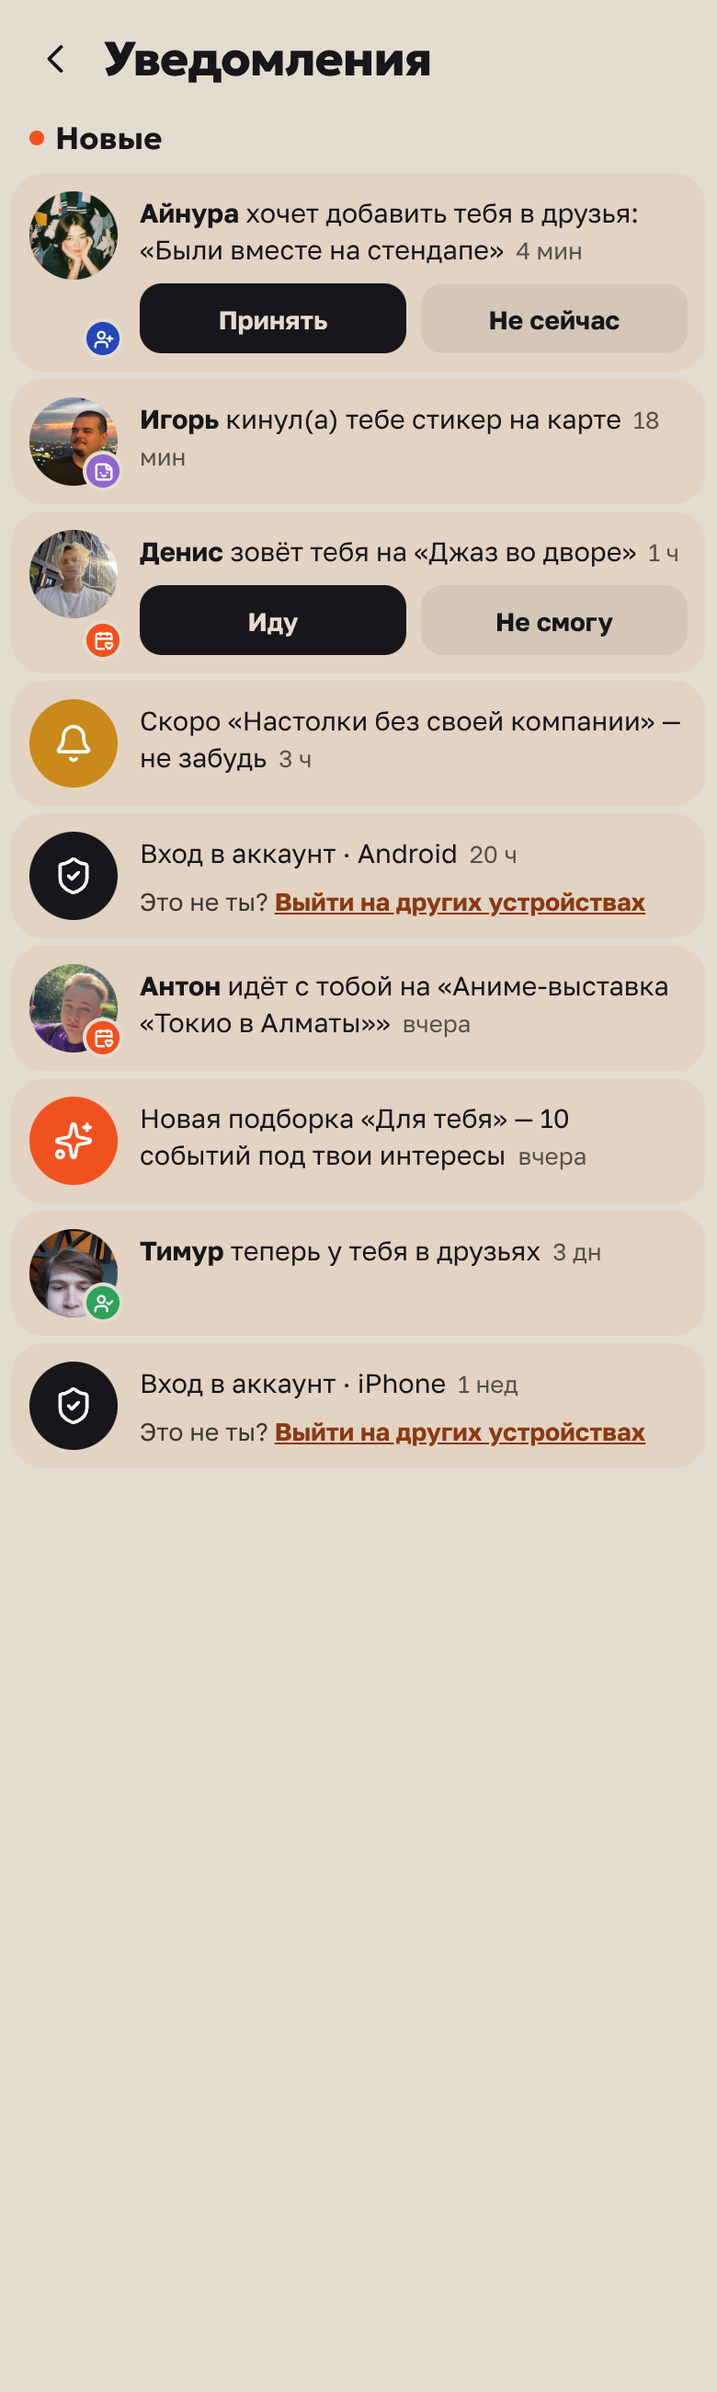
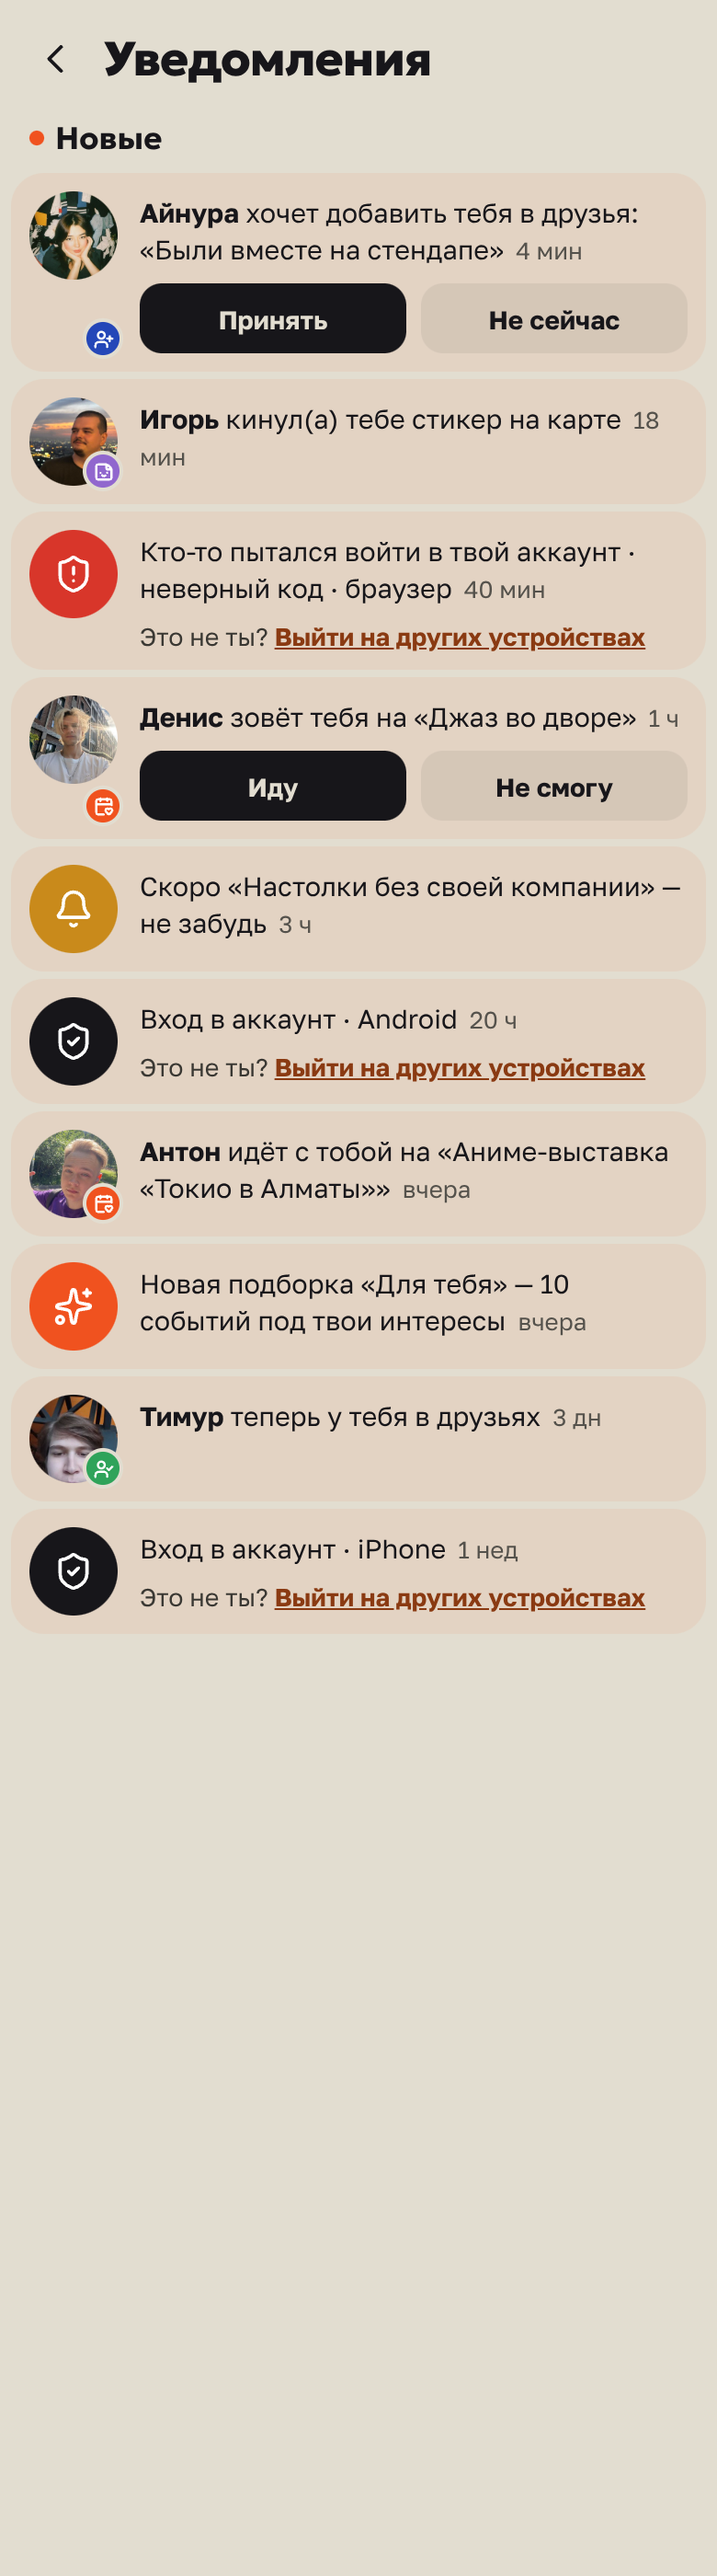
Уведомления: «Кто-то пытался войти в твой аккаунт» — неверный код входа записывается владельцу с устройством (миграция 43, функция входа); колокольчик и в «Профиле»
Claude-Session: https://claude.ai/code/session_01DMdj7yuvkvUJavaKvkBSQC

Changed region(s): [[0.0308, 0.0, 0.9538, 0.6542], [0.8923, 0.1558, 0.9231, 0.1869]]

diff --git a/src/features/chats/ChatsScreen.tsx b/src/features/chats/ChatsScreen.tsx
@@ -6,8 +6,7 @@ import { Tick, tickOf } from '../../chat/ui/Tick';
 import { useQuery } from '@tanstack/react-query';
 import { useNet } from '../../live/net';
 import { StateView } from '../../ui/StateView';
-import { getActivity, useActivitySeen } from '../../activity/data';
-import { unseenCount } from '../../activity/model';
+import { ActivityBell } from '../activity/ActivityBell';
 import { router } from 'expo-router';
 import { config } from '../../lib/config';
 import { createFriendGroup } from '../../live/api';
@@ -15,7 +14,7 @@ import { queryClient } from '../../live/query';
 import { uid } from '../../lib/uid';
 import { isFriendNow, useSocial } from '../../state/social';
 import { SwipeRow, type RowAction } from '../../ui/SwipeRow';
-import { Archive, ArchiveRestore, Bell, CalendarCheck, Camera, EyeOff, Pin, PinOff, SquarePen, Users } from 'lucide-react-native';
+import { Archive, ArchiveRestore, CalendarCheck, Camera, EyeOff, Pin, PinOff, SquarePen, Users } from 'lucide-react-native';
 import * as ImagePicker from 'expo-image-picker';
 import { friendActivity, previewText } from '../../chat/activity';
 import { getInvites, type Invite } from '../../live/api';
@@ -45,9 +44,6 @@ export default function ChatsScreen() {
   const [filter, setFilter] = useState<Filter>('all');
   const [search, setSearch] = useState<string | null>(null);
   const chatsQuery = useQuery({ queryKey: ['chats'], queryFn: () => data.getChats() });
-  const activity = useQuery({ queryKey: ['activity'], queryFn: getActivity, staleTime: 60e3, refetchInterval: 120e3 });
-  const seenAt = useActivitySeen((s) => s.seenAt);
-  const newActivity = unseenCount(activity.data ?? [], seenAt);
   const { data: chats = [] } = chatsQuery;
   const online = useNet((s) => s.online);
   const { data: requests = [] } = useQuery({ queryKey: ['chatRequests'], queryFn: () => data.getChatRequests() });
@@ -130,10 +126,7 @@ export default function ChatsScreen() {
           <Text style={[styles.h1, headTitle !== 'Чаты' && styles.h1Wait]} accessibilityRole="header" numberOfLines={1}>{headTitle}</Text>
         </View>
         {/* Уведомления (FIX5): колокольчик с числом нового — заявки, приглашения, стикеры, входы в аккаунт. */}
-        <Pressable onPress={() => router.push('/activity')} style={[styles.round, { marginRight: 8 }]} accessibilityRole="button" accessibilityLabel={newActivity ? `Уведомления, новых: ${newActivity}` : 'Уведомления'}>
-          <Bell size={20} color={colors.ink} strokeWidth={1.9} />
-          {newActivity > 0 && <View style={styles.bellBadge}><Text style={styles.bellBadgeText}>{newActivity > 9 ? '9+' : newActivity}</Text></View>}
-        </Pressable>
+        <ActivityBell style={[styles.round, { marginRight: 8 }]} dot={styles.bellBadge} dotText={styles.bellBadgeText} />
         <Pressable onPress={() => setCompose(true)} style={[styles.round,{marginRight:8}]} accessibilityRole="button" accessibilityLabel="Новый чат"><SquarePen size={20} color={colors.ink} strokeWidth={1.9} /></Pressable>
         <Pressable onPress={() => setSearch(search == null ? '' : null)} style={styles.round} accessibilityRole="button" accessibilityLabel="Поиск по чатам">
           <Ic d="M20 20l-3.5-3.5" c={[[11, 11, 7]]} size={20} color={colors.ink} w={1.9} />

diff --git a/src/activity/model.ts b/src/activity/model.ts
@@ -3,7 +3,7 @@
 
 export interface ActivityRow { kind: string; at: string; person_id: string | null; person_name: string | null; person_photo: string | null; event_id: string | null; event_title: string | null; detail: string | null }
 
-export type ActivityIcon = 'person' | 'friend' | 'calendar' | 'sticker' | 'near' | 'bell' | 'cancel' | 'shield' | 'sparkles';
+export type ActivityIcon = 'alert' | 'person' | 'friend' | 'calendar' | 'sticker' | 'near' | 'bell' | 'cancel' | 'shield' | 'sparkles';
 export interface ActivityItem {
   id: string; kind: string; at: string;
   /** Жирное имя в начале строки (как в Instagram) и остальной текст. */
@@ -39,6 +39,7 @@ export function toItem(r: ActivityRow, i = 0): ActivityItem {
     case 'push_cancelled': return { ...base, who: null, text: `Отменили ${ev}`, icon: 'cancel', href: r.event_id ? `/event/${r.event_id}` : null };
     case 'push_dailyFeed': return { ...base, who: null, text: 'Новая подборка «Для тебя» — 10 событий под твои интересы', icon: 'sparkles', href: '/foryou' };
     case 'push_weekend': return { ...base, who: null, text: 'Подборка на выходные готова', icon: 'sparkles', href: '/foryou' };
+    case 'login_failed': return { ...base, who: null, photo: null, text: `Кто-то пытался войти в твой аккаунт · неверный код · ${deviceOf(r.detail)}`, icon: 'alert', href: null, action: 'security' };
     case 'login': return { ...base, who: null, photo: null, text: `Вход в аккаунт · ${deviceOf(r.detail)}`, icon: 'shield', href: null, action: 'security' };
     default: return { ...base, who: null, text: 'Уведомление', icon: 'bell', href: null };
   }

diff --git a/src/features/activity/ActivityScreen.tsx b/src/features/activity/ActivityScreen.tsx
@@ -3,7 +3,7 @@
 // Заявку можно принять, на приглашение ответить, а чужой вход — закрыть «Выйти на других устройствах» прямо в строке.
 import { useQuery, useQueryClient } from '@tanstack/react-query';
 import { router, useFocusEffect } from 'expo-router';
-import { Ban, Bell, CalendarHeart, ChevronLeft, MapPin, ShieldCheck, Sparkles, Sticker, UserCheck, UserPlus, type LucideIcon } from 'lucide-react-native';
+import { Ban, Bell, CalendarHeart, ChevronLeft, MapPin, ShieldAlert, ShieldCheck, Sparkles, Sticker, UserCheck, UserPlus, type LucideIcon } from 'lucide-react-native';
 import { useCallback, useState } from 'react';
 import { Pressable, RefreshControl, ScrollView, StyleSheet, Text, View } from 'react-native';
 import Animated, { FadeIn, FadeInDown, LinearTransition } from 'react-native-reanimated';
@@ -22,6 +22,7 @@ import { StateView } from '../../ui/StateView';
 import { Toast, type ToastData } from '../../ui/Toast';
 
 const ICON: Record<ActivityIcon, { Icon: LucideIcon; bg: string }> = {
+  alert: { Icon: ShieldAlert, bg: '#D8362A' },
   person: { Icon: UserPlus, bg: colors.friend }, friend: { Icon: UserCheck, bg: '#2FA35A' }, calendar: { Icon: CalendarHeart, bg: colors.accent },
   sticker: { Icon: Sticker, bg: '#9167CE' }, near: { Icon: MapPin, bg: colors.friend }, bell: { Icon: Bell, bg: '#C98A1B' },
   cancel: { Icon: Ban, bg: '#8C8577' }, shield: { Icon: ShieldCheck, bg: colors.ink }, sparkles: { Icon: Sparkles, bg: colors.accent },

diff --git a/src/features/activity/ActivityBell.tsx b/src/features/activity/ActivityBell.tsx
@@ -1,0 +1,24 @@
+// Колокольчик «Уведомления» с числом нового (FIX5) — в «Чатах» и в «Профиле», ведёт в ленту уведомлений.
+import { useQuery } from '@tanstack/react-query';
+import { router } from 'expo-router';
+import { Bell } from 'lucide-react-native';
+import { Pressable, Text, View, type StyleProp, type TextStyle, type ViewStyle } from 'react-native';
+import { getActivity, useActivitySeen } from '../../activity/data';
+import { unseenCount } from '../../activity/model';
+import { colors } from '../../theme';
+
+export function useNewActivity(): number {
+  const q = useQuery({ queryKey: ['activity'], queryFn: getActivity, staleTime: 60e3, refetchInterval: 120e3 });
+  const seenAt = useActivitySeen((s) => s.seenAt);
+  return unseenCount(q.data ?? [], seenAt);
+}
+
+export function ActivityBell({ style, dot, dotText }: { style: StyleProp<ViewStyle>; dot: StyleProp<ViewStyle>; dotText: StyleProp<TextStyle> }) {
+  const n = useNewActivity();
+  return (
+    <Pressable onPress={() => router.push('/activity')} style={style} accessibilityRole="button" accessibilityLabel={n ? `Уведомления, новых: ${n}` : 'Уведомления'}>
+      <Bell size={20} color={colors.ink} strokeWidth={1.9} />
+      {n > 0 && <View style={dot}><Text style={dotText}>{n > 9 ? '9+' : n}</Text></View>}
+    </Pressable>
+  );
+}

diff --git a/src/features/profile/ProfileScreen.tsx b/src/features/profile/ProfileScreen.tsx
@@ -5,6 +5,7 @@
 import { useQuery } from '@tanstack/react-query';
 import * as ImagePicker from 'expo-image-picker';
 import { router, useFocusEffect, useIsFocused } from 'expo-router';
+import { ActivityBell } from '../activity/ActivityBell';
 import { BedDouble, ChevronRight, Code2, Footprints, Home, ImagePlus, QrCode, Settings, type LucideIcon } from 'lucide-react-native';
 import { memo, useCallback, useEffect, useRef, useState } from 'react';
 import { create } from 'zustand';
@@ -147,6 +148,7 @@ export default function ProfileScreen() {
               {s.drafts > 0 && <View style={styles.topDot}><Text style={styles.topDotText}>{s.drafts > 99 ? '99+' : s.drafts}</Text></View>}
             </Pressable>
           )}
+          <ActivityBell style={styles.topBtn} dot={styles.topDot} dotText={styles.topDotText} />
           <Pressable onPress={() => router.push('/profile/qr')} style={styles.topBtn} accessibilityRole="button" accessibilityLabel="Мой QR-код"><QrCode size={20} color={colors.ink} strokeWidth={1.9} /></Pressable>
           <Pressable onPress={() => router.push('/settings')} style={styles.topBtn} accessibilityRole="button" accessibilityLabel="Настройки"><Settings size={20} color={colors.ink} strokeWidth={1.9} /></Pressable>
         </View>

diff --git a/supabase/functions/alpha-login/index.ts b/supabase/functions/alpha-login/index.ts
@@ -64,7 +64,11 @@ Deno.serve(async (req) => {
   const { count } = await db.from('alpha_attempts').select('id', { count: 'exact', head: true }).eq('phone_hash', phoneHash).eq('ok', false).gte('at', since);
   if ((count ?? 0) >= 5) return json({ error: 'too_many' }, 429);
   if ((body.code ?? '').trim() !== t.code) {
-    await db.from('alpha_attempts').insert({ phone_hash: phoneHash, ok: false });
+    // Владельцу аккаунта — «Кто-то пытался войти» в ленте уведомлений (FIX5, миграция 43). Без миграции — как раньше.
+    const { data: owner } = await db.rpc('user_id_by_phone', { p: phone });
+    const ua = (req.headers.get('user-agent') ?? '').slice(0, 200);
+    const { error } = await db.from('alpha_attempts').insert({ phone_hash: phoneHash, ok: false, user_id: owner ?? null, user_agent: ua || null });
+    if (error) await db.from('alpha_attempts').insert({ phone_hash: phoneHash, ok: false });
     return json({ error: 'bad_code' }, 401);
   }
   await db.from('alpha_attempts').insert({ phone_hash: phoneHash, ok: true });

diff --git a/src/activity/data.ts b/src/activity/data.ts
@@ -23,6 +23,7 @@ function demoRows(): ActivityRow[] {
     { ...none, ...p('igor', 'Игорь', 'igor'), kind: 'push_sticker', at: ago(18) },
     { ...none, ...p('denis', 'Денис', 'denis'), kind: 'invite', at: ago(65), event_id: 'jazz', event_title: 'Джаз во дворе' },
     { ...none, kind: 'push_reminder', at: ago(150), event_id: 'games', event_title: 'Настолки без своей компании' },
+    { ...none, kind: 'login_failed', at: ago(40), detail: 'Mozilla/5.0 (Windows NT 10.0) Chrome/120' },
     { ...none, kind: 'login', at: ago(60 * 20), detail: 'okhttp/4.12.0' },
     { ...none, ...p('anton', 'Антон', 'anton'), kind: 'invite_answer', at: ago(60 * 26), event_id: 'anime', event_title: 'Аниме-выставка «Токио в Алматы»', detail: 'yes' },
     { ...none, kind: 'push_dailyFeed', at: ago(60 * 30) },

diff --git a/src/__tests__/activity.test.ts b/src/__tests__/activity.test.ts
@@ -31,3 +31,8 @@ describe('лента уведомлений (FIX5)', () => {
     expect(shortAgo('2026-10-11T10:00:00Z', now)).toBe('2 нед');
   });
 });
+
+it('чужая попытка входа — тревожная строка с выходом на других устройствах', () => {
+  const it2 = toItem({ kind: 'login_failed', at: '2026-10-25T10:00:00Z', person_id: null, person_name: null, person_photo: null, event_id: null, event_title: null, detail: 'Mozilla/5.0 (Windows NT 10.0) Chrome/120' });
+  expect(it2).toMatchObject({ icon: 'alert', action: 'security', text: 'Кто-то пытался войти в твой аккаунт · неверный код · браузер' });
+});

diff --git a/docs/FIX5.md b/docs/FIX5.md
@@ -32,7 +32,7 @@
 
 ## Дополнение: уведомления и панель (25 октября, вечер)
 
-- **Лента уведомлений** — колокольчик в «Чатах» с числом нового. Как «Активность» в Instagram: заявки в друзья (принять прямо в строке), новые друзья, приглашения («Иду / Не смогу»), ответы на твои приглашения, стикеры, напоминания, отмены, подборки и **входы в аккаунт** с устройством — «Это не ты? Выйти на других устройствах». Группы «Новые / Сегодня / Вчера / На этой неделе / Раньше». Данные — функция `my_activity()` (миграция 42); пока её нет на сервере — заявки и приглашения. Неудачные попытки входа сервер пока не записывает — видны только состоявшиеся входы.
+- **Лента уведомлений** — колокольчик в «Чатах» с числом нового. Как «Активность» в Instagram: заявки в друзья (принять прямо в строке), новые друзья, приглашения («Иду / Не смогу»), ответы на твои приглашения, стикеры, напоминания, отмены, подборки и **входы в аккаунт** с устройством — «Это не ты? Выйти на других устройствах». Группы «Новые / Сегодня / Вчера / На этой неделе / Раньше». Данные — функция `my_activity()` (миграция 42); пока её нет на сервере — заявки и приглашения. Неудачные попытки входа (неверный код) — красной строкой «Кто-то пытался войти в твой аккаунт» с устройством (миграция 43 и обновлённая функция входа). Колокольчик — в «Чатах» и в «Профиле».
 - **Панель: пуш «Модерация» ронял приложение.** Он вёл на несуществующий адрес `/admin`: приложение уходило на главную, снова «открывало» тот же пуш — и так по кругу до падения. Теперь пуш ведёт в «События», одно нажатие открывается один раз, старые адреса переводятся сами.
 - **Поиск в панели заново**: шаги «Где искать» (сайты — бесплатно / ИИ — платно / всё вместе), «На сколько дней вперёд», «Темы» для ИИ; во время поиска — радар, живые счётчики и каждый источник со статусом (ждём / найдено N / не открылся); в конце — «Нашёл 20» и кнопка «Проверить 12 карточек». В демо поиск проигрывается, чтобы были видны все состояния. Строки событий на проверке плавно появляются и улетают после решения.
 
@@ -40,7 +40,7 @@
 
 ## Что нужно от владельца
 
-1. **Обновить сервер**: GitHub → Actions → «Supabase backend» → Run workflow (с `main` после Merge). Применит миграции 40 (заряд друзей), 41 (шаги по дням) и 42 (лента уведомлений), обновит функцию пушей. Без них приложение работает: заряда не видно, шаги — только «сегодня» и «эта неделя».
+1. **Обновить сервер**: GitHub → Actions → «Supabase backend» → Run workflow (с `main` после Merge). Применит миграции 40 (заряд друзей), 41 (шаги по дням), 42–43 (лента уведомлений и попытки входа), обновит функции пушей и входа. Без них приложение работает: заряда не видно, шаги — только «сегодня» и «эта неделя».
 2. **Собрать APK** — когда скажешь.
 
 ## Не сделано / проверить на телефоне
